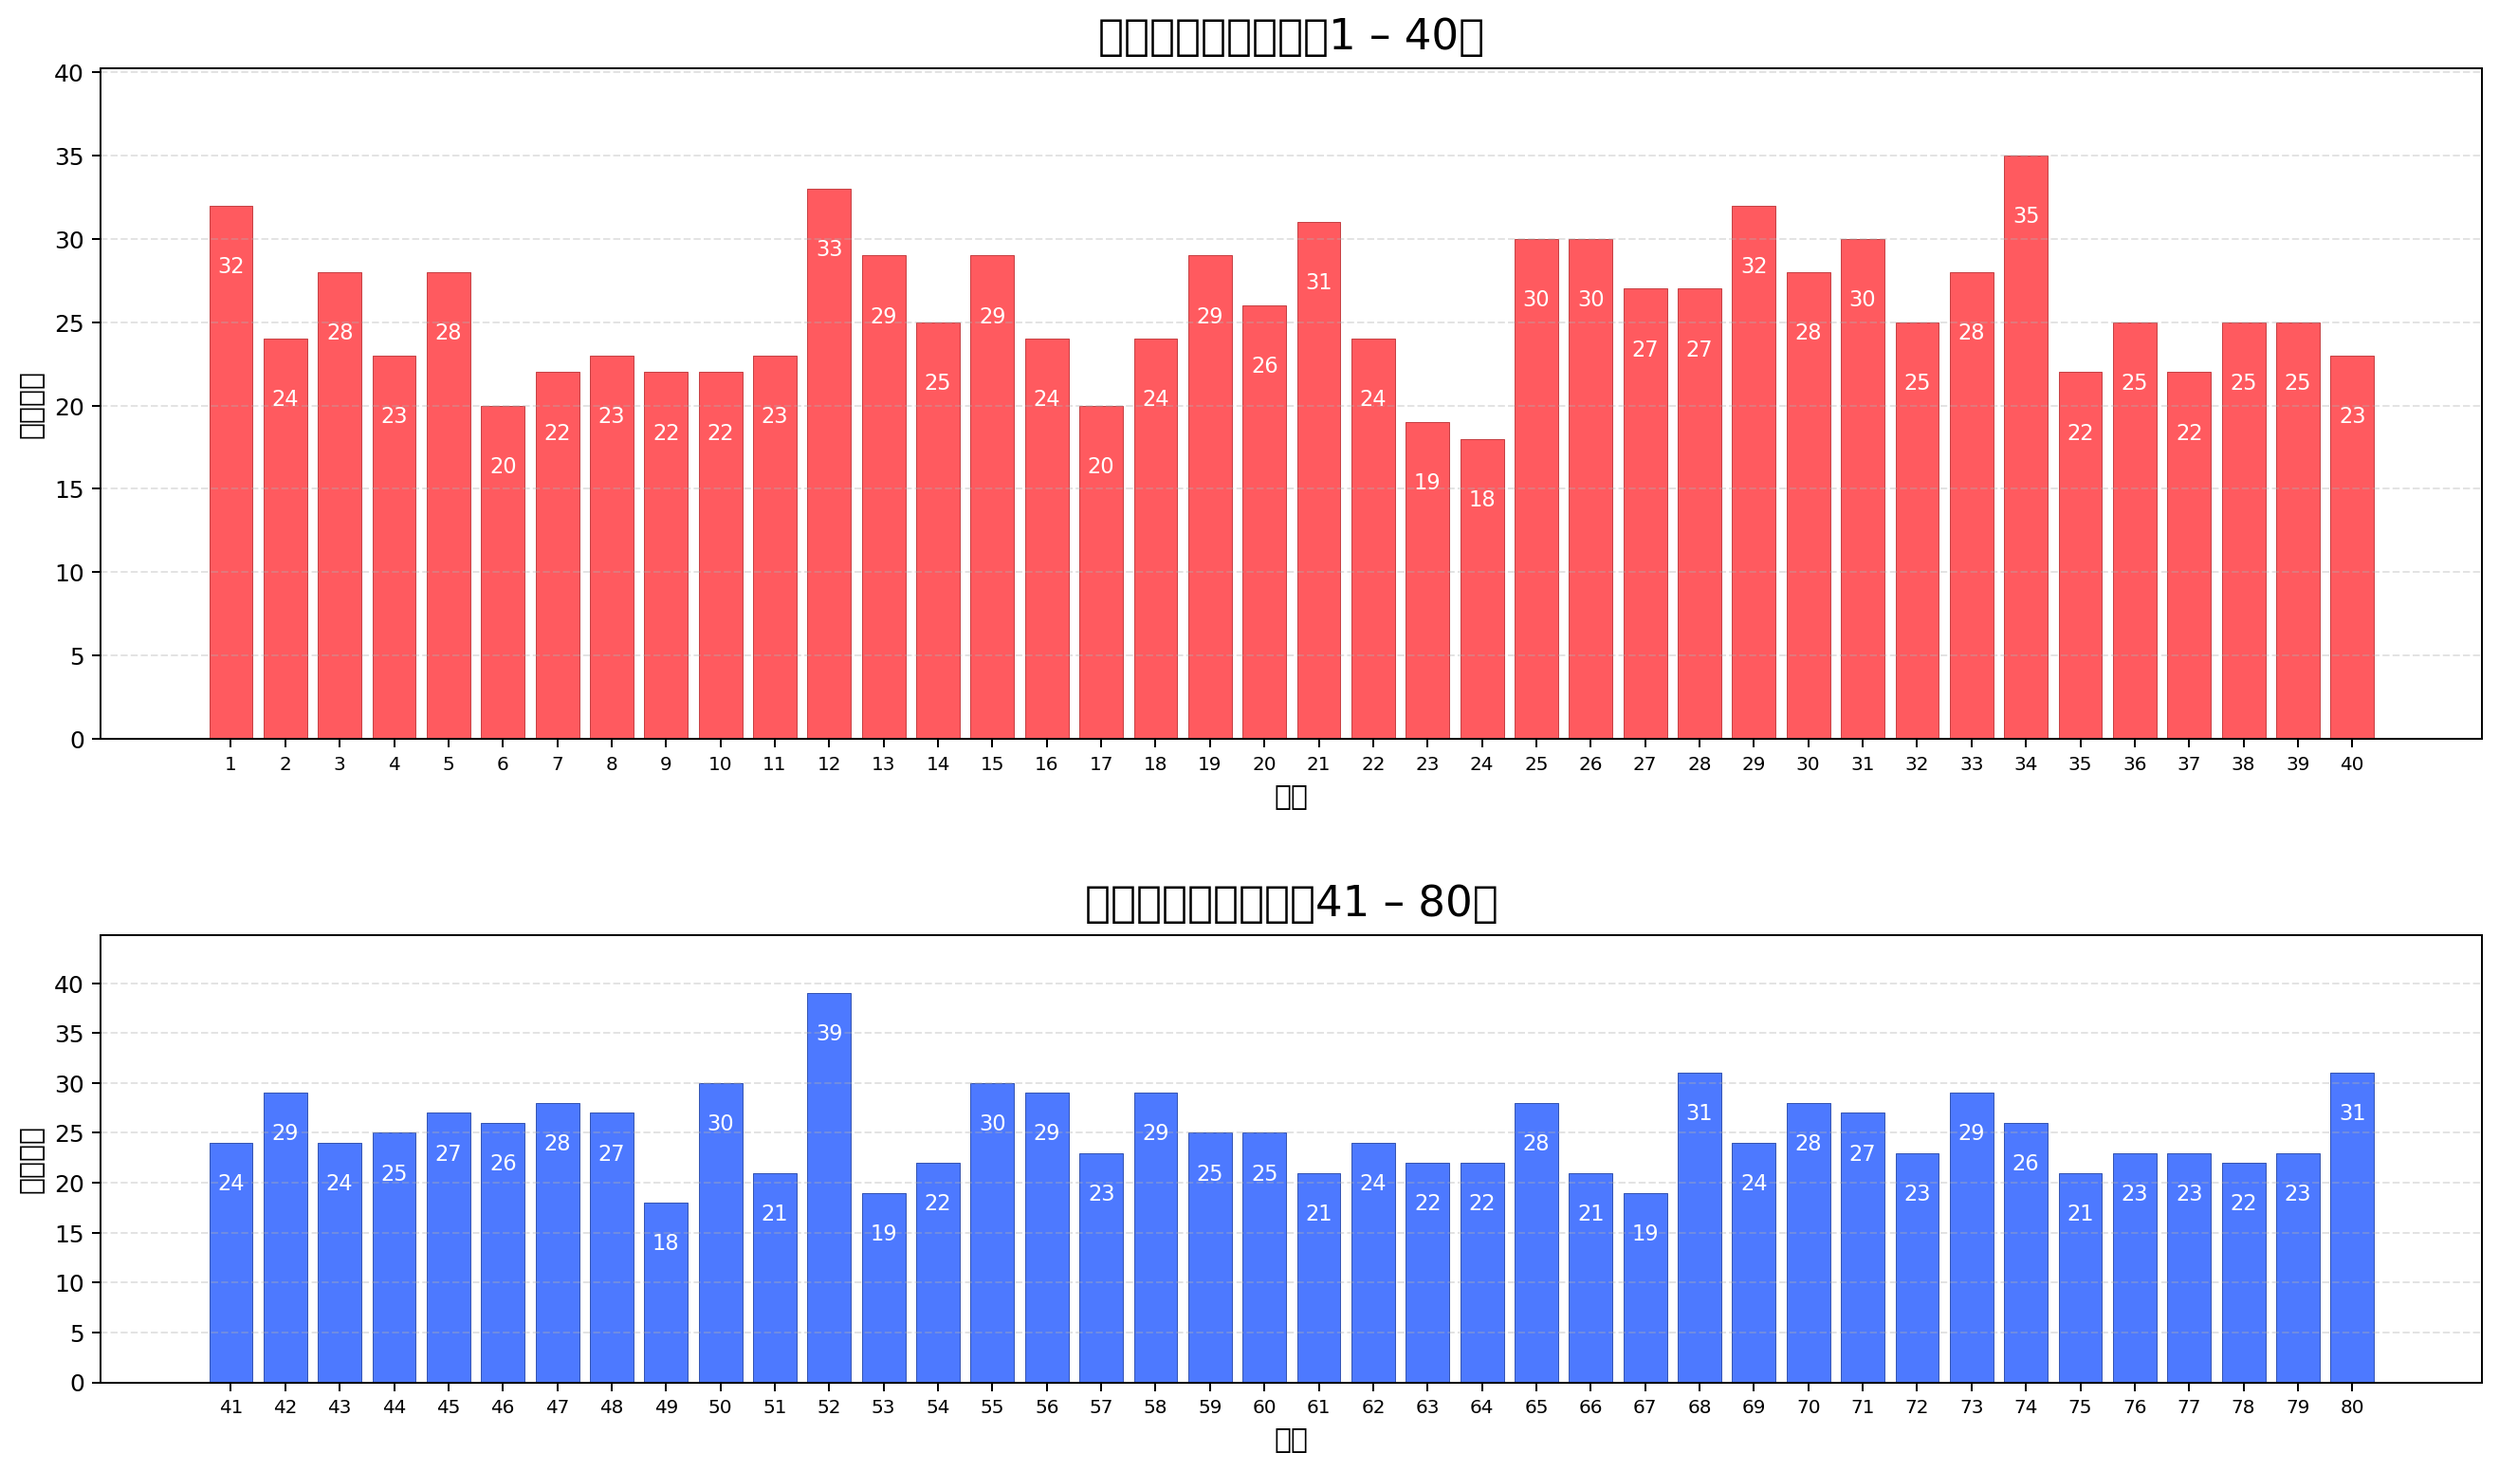
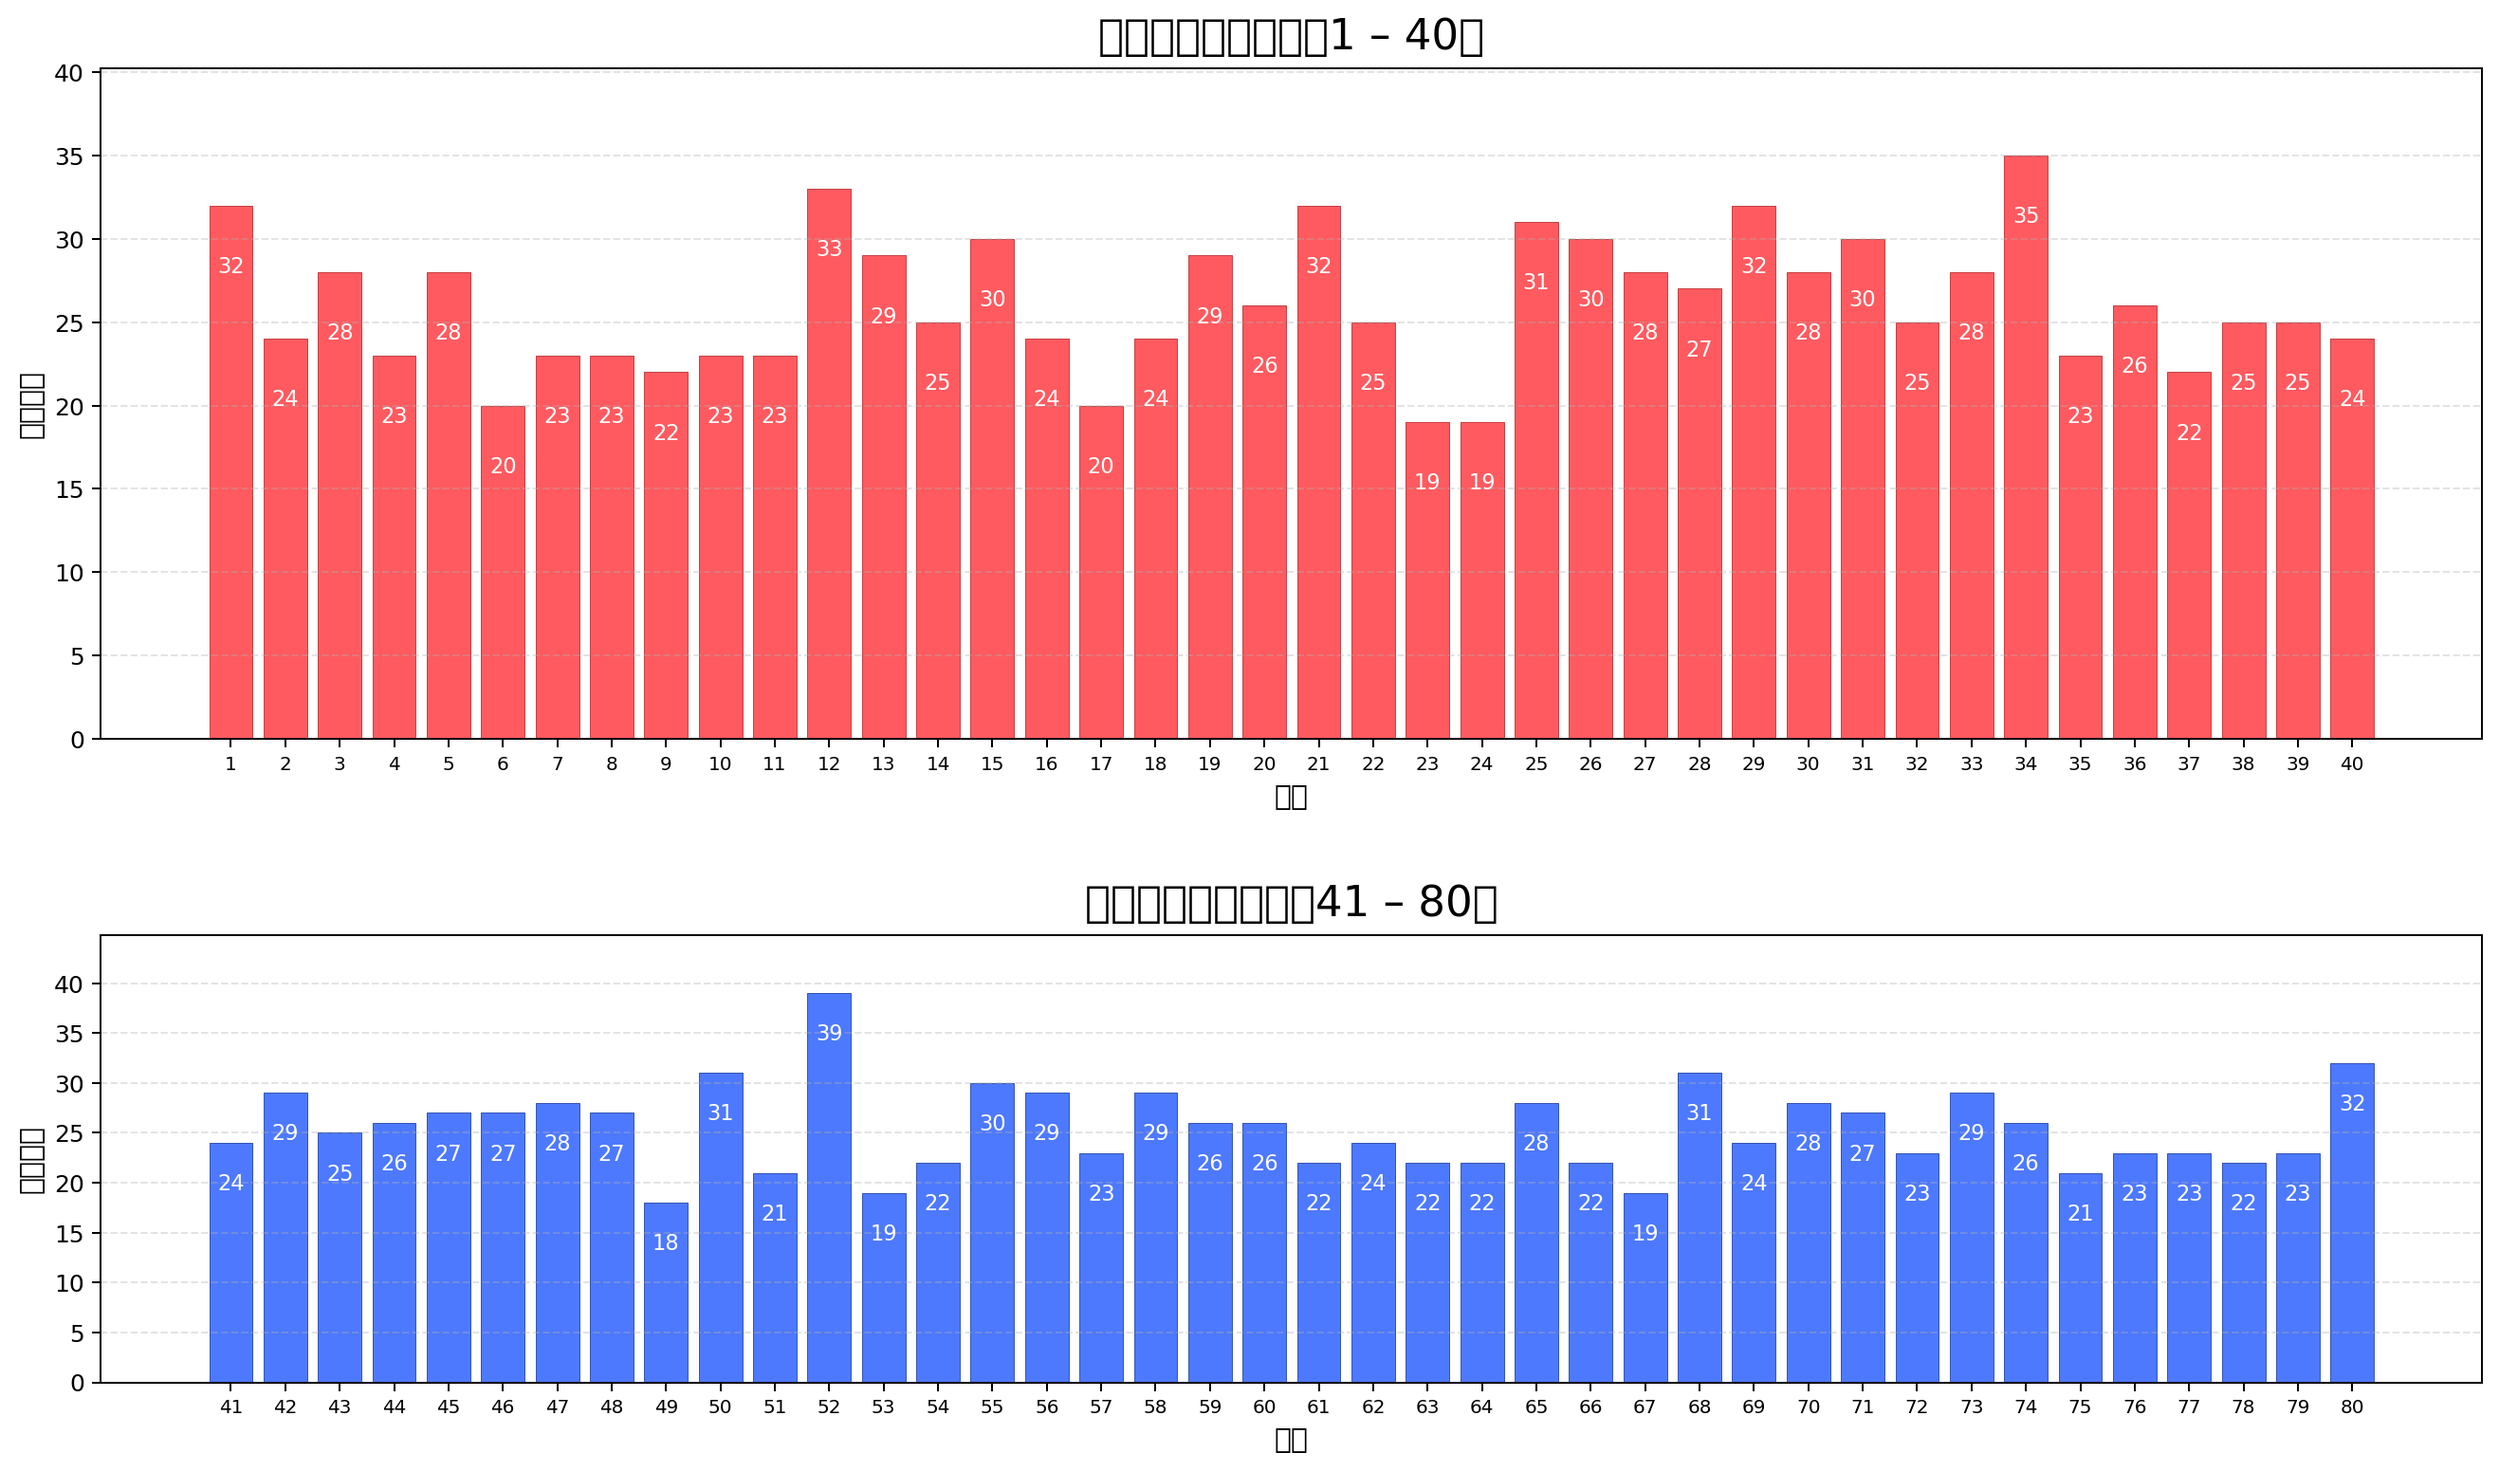
Update lottery data and analysis reports - 2025-08-17 23:13:43 (UTC+8)

diff --git a/reports/kl8_analysis_report.md b/reports/kl8_analysis_report.md
@@ -3,30 +3,30 @@
 > 免责声明：历史数据无法预测未来。本报告仅供技术学习参考，不构成投注建议。
 
 
-**数据期数**: 102 期
+**数据期数**: 103 期
 
-**最近开奖**: 期号 2025218 | 日期 2025-08-16(六) | 号码: 13, 14, 17, 26, 28, 36, 37, 42, 44, 48, 49, 56, 57, 58, 61, 62, 64, 70, 71, 73
+**最近开奖**: 期号 2025219 | 日期 2025-08-17(日) | 号码: 07, 10, 15, 21, 22, 24, 25, 27, 35, 36, 40, 43, 44, 46, 50, 59, 60, 61, 66, 80
 
-**和值均值(样本)**: 804.67 ；**理论期望**: 810
+**和值均值(样本)**: 804.34 ；**理论期望**: 810
 
 
 ## 热号 Top15
 
-52(39), 34(35), 12(33), 01(32), 29(32), 21(31), 68(31), 80(31), 25(30), 26(30), 31(30), 50(30), 55(30), 13(29), 15(29)
+52(39), 34(35), 12(33), 01(32), 21(32), 29(32), 80(32), 25(31), 50(31), 68(31), 15(30), 26(30), 31(30), 55(30), 13(29)
 
 
 ## 冷号 Top15
 
-49(18), 24(18), 67(19), 53(19), 23(19), 17(20), 06(20), 75(21), 66(21), 61(21), 51(21), 78(22), 64(22), 63(22), 54(22)
+49(18), 67(19), 53(19), 24(19), 23(19), 17(20), 06(20), 75(21), 51(21), 78(22), 66(22), 64(22), 63(22), 61(22), 54(22)
 
 
 ## 推荐组合（示例，非投注建议）
 
-- 方案1: 01, 03, 04, 05, 10, 19, 21, 22, 24, 26, 37, 44, 47, 50, 53, 56, 57, 61, 68, 72
-- 方案2: 03, 19, 20, 21, 22, 25, 28, 30, 35, 38, 45, 52, 54, 57, 62, 68, 70, 73, 74, 79
-- 方案3: 02, 12, 14, 17, 24, 25, 27, 37, 39, 42, 44, 49, 51, 52, 56, 58, 68, 70, 73, 76
-- 方案4: 01, 03, 08, 09, 12, 15, 26, 28, 41, 43, 45, 57, 58, 61, 63, 66, 70, 71, 74, 76
-- 方案5: 10, 17, 18, 19, 20, 21, 25, 29, 30, 36, 37, 41, 45, 47, 48, 52, 55, 60, 70, 80
+- 方案1: 01, 03, 04, 05, 10, 20, 21, 23, 24, 25, 37, 44, 46, 50, 51, 54, 55, 60, 66, 71
+- 方案2: 10, 11, 15, 29, 30, 32, 42, 43, 44, 48, 49, 56, 58, 62, 63, 65, 66, 69, 76, 79
+- 方案3: 04, 18, 19, 20, 21, 23, 25, 26, 32, 36, 44, 49, 50, 55, 60, 66, 69, 71, 74, 80
+- 方案4: 05, 07, 09, 12, 20, 24, 32, 33, 35, 42, 44, 45, 48, 52, 62, 66, 71, 76, 79, 80
+- 方案5: 01, 03, 08, 09, 10, 15, 25, 26, 40, 42, 44, 58, 59, 60, 62, 65, 69, 70, 74, 76
 
 ---
 

diff --git a/reports/kl8_profit_plan.md b/reports/kl8_profit_plan.md
@@ -4,16 +4,16 @@
 
 - 总预算：¥22.00 ； 单注价格：¥2.00 ； 计划总注数：11
 
-- 最近开奖：期号 2025218 | 日期 2025-08-16(六) | 号码：13, 14, 17, 26, 28, 36, 37, 42, 44, 48, 49, 56, 57, 58, 61, 62, 64, 70, 71, 73
+- 最近开奖：期号 2025219 | 日期 2025-08-17(日) | 号码：07, 10, 15, 21, 22, 24, 25, 27, 35, 36, 40, 43, 44, 46, 50, 59, 60, 61, 66, 80
 
 
 ## 推荐组合与资金分配
 
-- 方案01 | 分数 0.25991 | 注数   1 | 金额 ¥2.00 | 号码：01, 03, 04, 05, 10, 19, 21, 22, 24, 26, 37, 44, 47, 50, 53, 56, 57, 61, 68, 72
-- 方案02 | 分数 0.287865 | 注数   2 | 金额 ¥4.00 | 号码：03, 19, 20, 21, 22, 25, 28, 30, 35, 38, 45, 52, 54, 57, 62, 68, 70, 73, 74, 79
-- 方案03 | 分数 0.331902 | 注数   3 | 金额 ¥6.00 | 号码：02, 12, 14, 17, 24, 25, 27, 37, 39, 42, 44, 49, 51, 52, 56, 58, 68, 70, 73, 76
-- 方案04 | 分数 0.303261 | 注数   2 | 金额 ¥4.00 | 号码：01, 03, 08, 09, 12, 15, 26, 28, 41, 43, 45, 57, 58, 61, 63, 66, 70, 71, 74, 76
-- 方案05 | 分数 0.335175 | 注数   3 | 金额 ¥6.00 | 号码：10, 17, 18, 19, 20, 21, 25, 29, 30, 36, 37, 41, 45, 47, 48, 52, 55, 60, 70, 80
+- 方案01 | 分数 0.286095 | 注数   2 | 金额 ¥4.00 | 号码：01, 03, 04, 05, 10, 20, 21, 23, 24, 25, 37, 44, 46, 50, 51, 54, 55, 60, 66, 71
+- 方案02 | 分数 0.272611 | 注数   2 | 金额 ¥4.00 | 号码：10, 11, 15, 29, 30, 32, 42, 43, 44, 48, 49, 56, 58, 62, 63, 65, 66, 69, 76, 79
+- 方案03 | 分数 0.33833 | 注数   3 | 金额 ¥6.00 | 号码：04, 18, 19, 20, 21, 23, 25, 26, 32, 36, 44, 49, 50, 55, 60, 66, 69, 71, 74, 80
+- 方案04 | 分数 0.276753 | 注数   2 | 金额 ¥4.00 | 号码：05, 07, 09, 12, 20, 24, 32, 33, 35, 42, 44, 45, 48, 52, 62, 66, 71, 76, 79, 80
+- 方案05 | 分数 0.304342 | 注数   2 | 金额 ¥4.00 | 号码：01, 03, 08, 09, 10, 15, 25, 26, 40, 42, 44, 58, 59, 60, 62, 65, 69, 70, 74, 76
 
 **合计**：¥22.00
 
